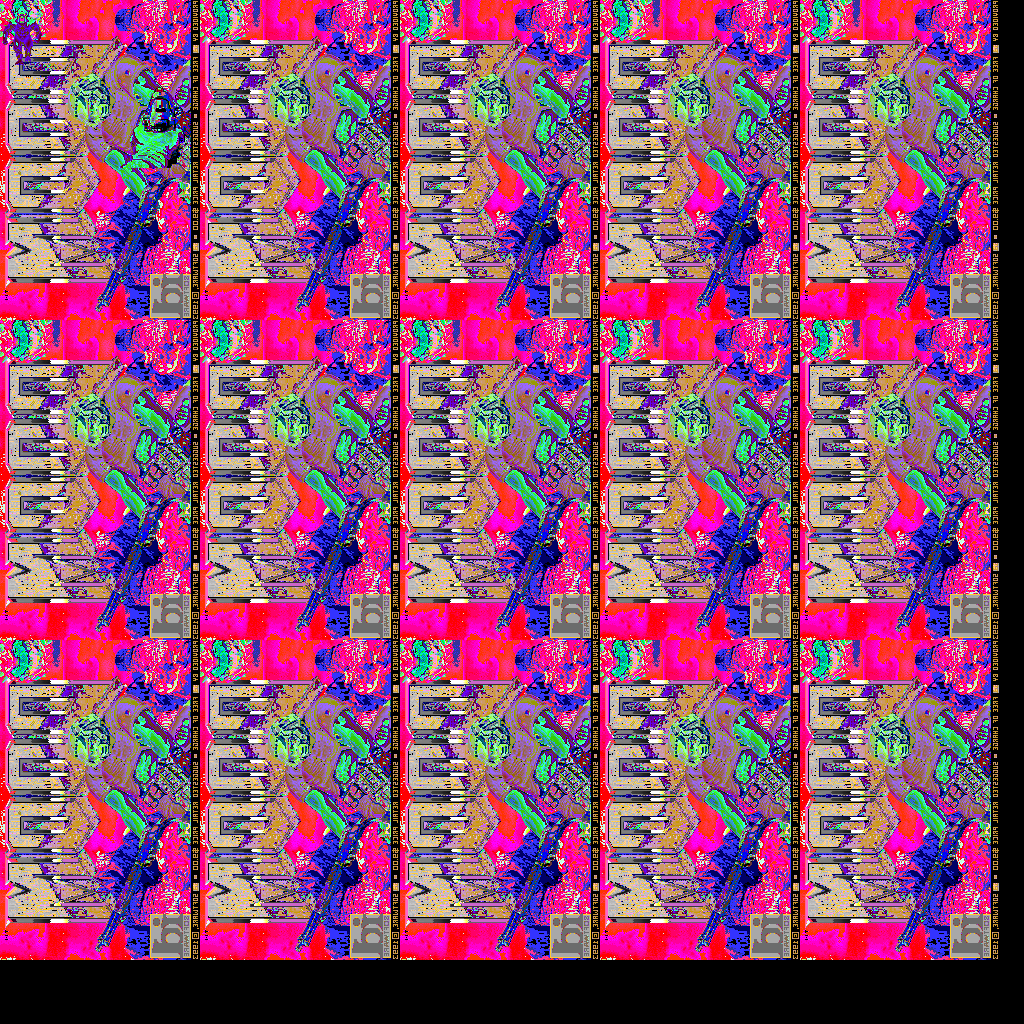
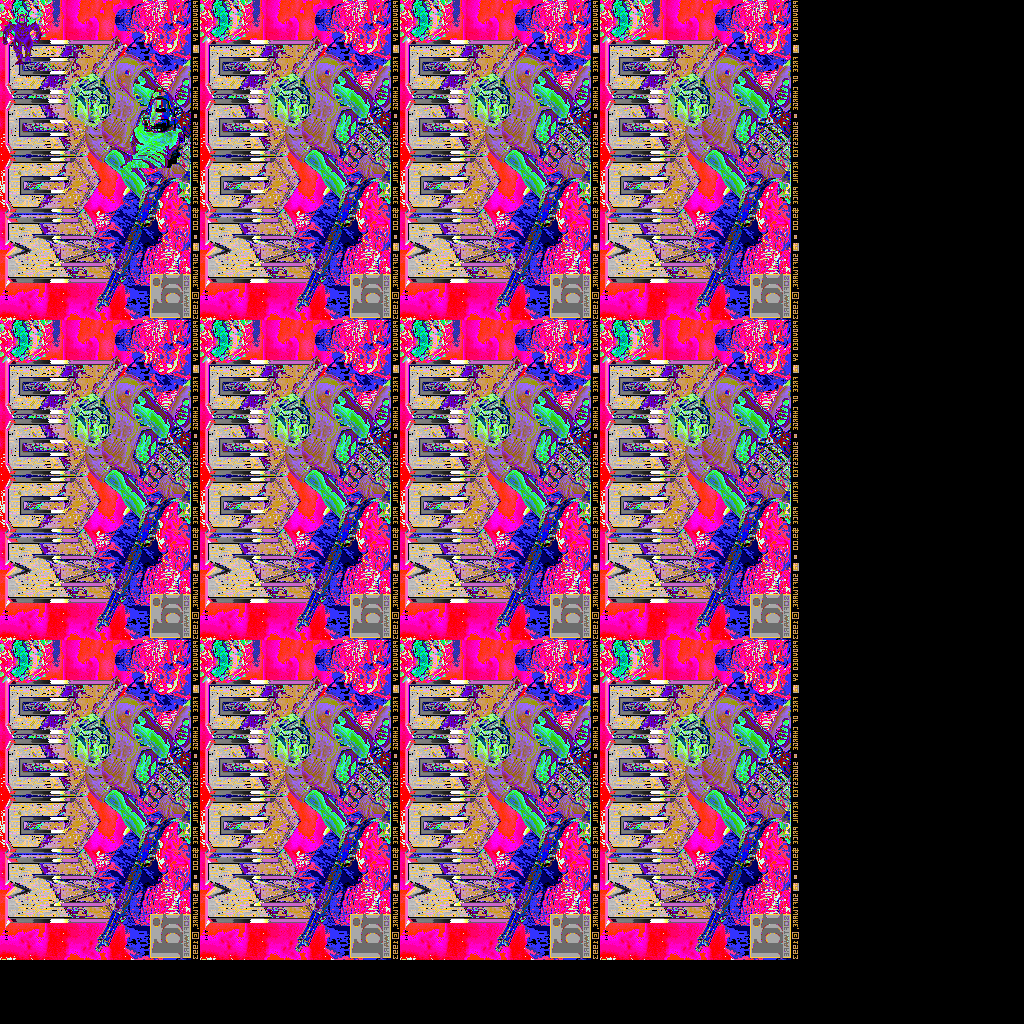
*** empty log message ***

Changed region(s): [[0.7812, 0.0, 0.9688, 0.9375]]

diff --git a/src/testers/LNBTester.java b/src/testers/LNBTester.java
@@ -40,13 +40,13 @@ public class LNBTester {
     patch_t troll= (patch_t)W.CacheLumpName("TROOA1", 0,patch_t.class);
     patch_t troll1= (patch_t)W.CacheLumpName("TROOA1", 0,patch_t.class);
     patch_t troll2= (patch_t)W.CacheLumpName("TROOA1", 0,patch_t.class);
-    SimpleRenderer V=new SimpleRenderer(512,512);
+    SimpleRenderer V=new SimpleRenderer(1024,1024);
     V.Init();
     int count=0;
     long timea=System.nanoTime();
     for (int i=0;i<100;i++){
         for (int s=0;s<4;s++){
-            for (int y=0;y<V.getHeight()/titlepic.height;y++){
+            for (int y=0;y<V.getHeight()/titlepic.height-1;y++){
             for (int x=0;x<V.getWidth()/titlepic.width;x++){
                 
                 V.DrawPatch(x*titlepic.width, y*titlepic.height,s, titlepic);
@@ -140,15 +140,15 @@ public class LNBTester {
     
     timea=System.nanoTime();
     for (int i=0;i<10;i++){
-    FastTranspose.blocktranspose(V.screens[0], scratch,9);
-    FastTranspose.blocktranspose(V.screens[1], scratch,9);
-    FastTranspose.blocktranspose(V.screens[2], scratch,9);
-    FastTranspose.blocktranspose(V.screens[3], scratch,9);
+    FastTranspose.blocktranspose(V.screens[0], scratch,10,1024,600);
+    FastTranspose.blocktranspose(V.screens[1], scratch,10,1024,600);
+    FastTranspose.blocktranspose(V.screens[2], scratch,10,1024,600);
+    FastTranspose.blocktranspose(V.screens[3], scratch,10,1024,600);
     count+=4;
     }
     timeb=System.nanoTime();     
     
-    FastTranspose.blocktranspose(V.screens[0], scratch, 9);
+    FastTranspose.blocktranspose(V.screens[0], scratch, 10);
     V.GetBlock(0, 0, 0, V.getWidth(), V.getHeight(), dump);
     System.out.println("Time for single transposing (Fast):" +(timeb-timea)/(count*1e06)+ " ms");
     

diff --git a/src/v/FastTranspose.java b/src/v/FastTranspose.java
@@ -60,9 +60,10 @@ for(i=0; i<(1<<BL); i++) {
     //if (startpt>=maxx) break;
     // index= maxx*i
     if (startpt/startlength>=maxy) {
-        System.out.println(startpt/startlength) break;
+    //    System.out.println(startpt/startlength);
+        return;
     }
-    if (destpt/destlength>=maxx) break;
+    if (destpt/destlength>=maxx) return;
 pt1=startpt;
 pt2=destpt;
 for(j=0; j<(1<<BL); j+=64) {           
